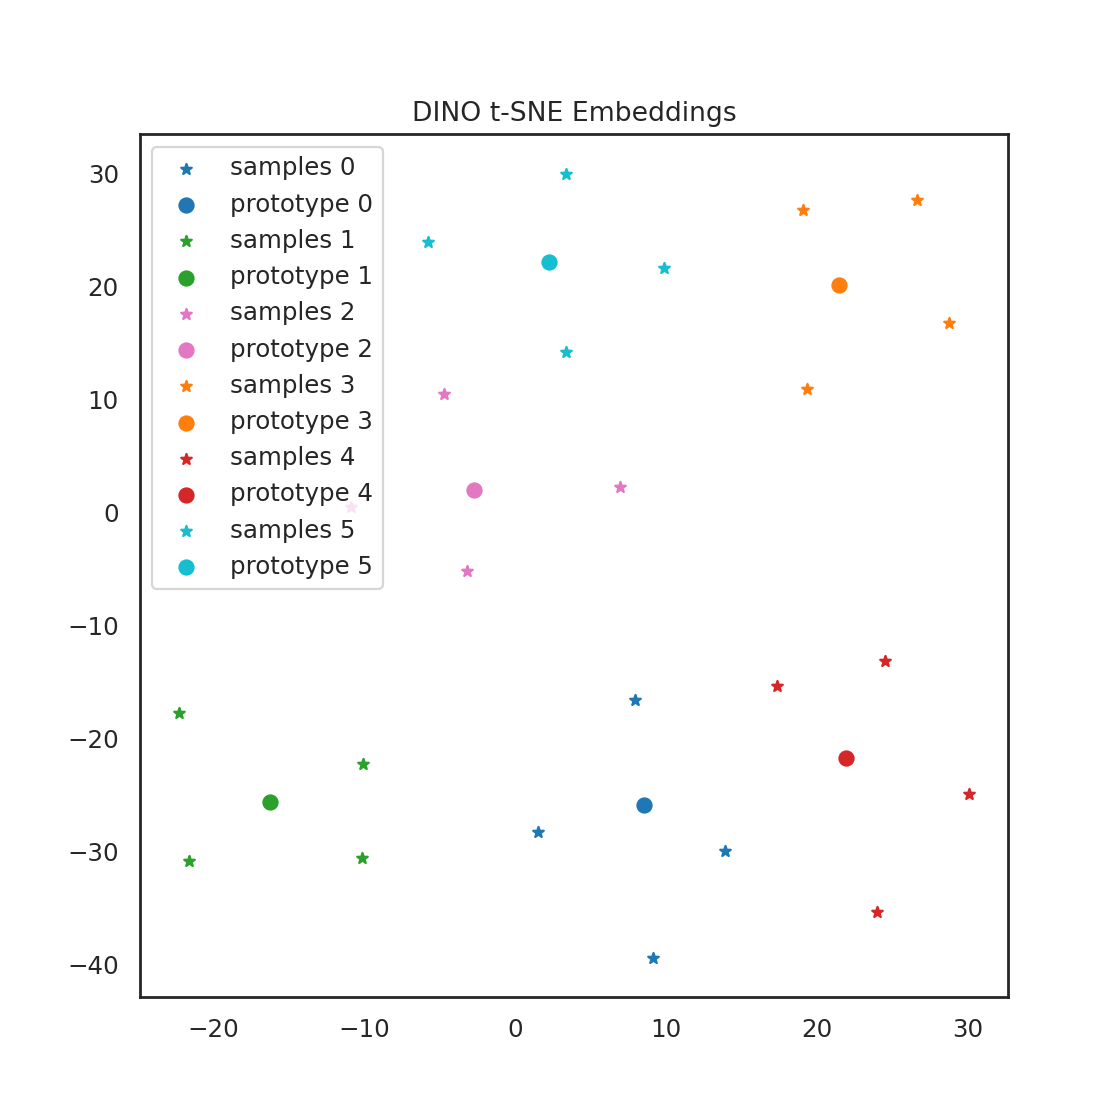
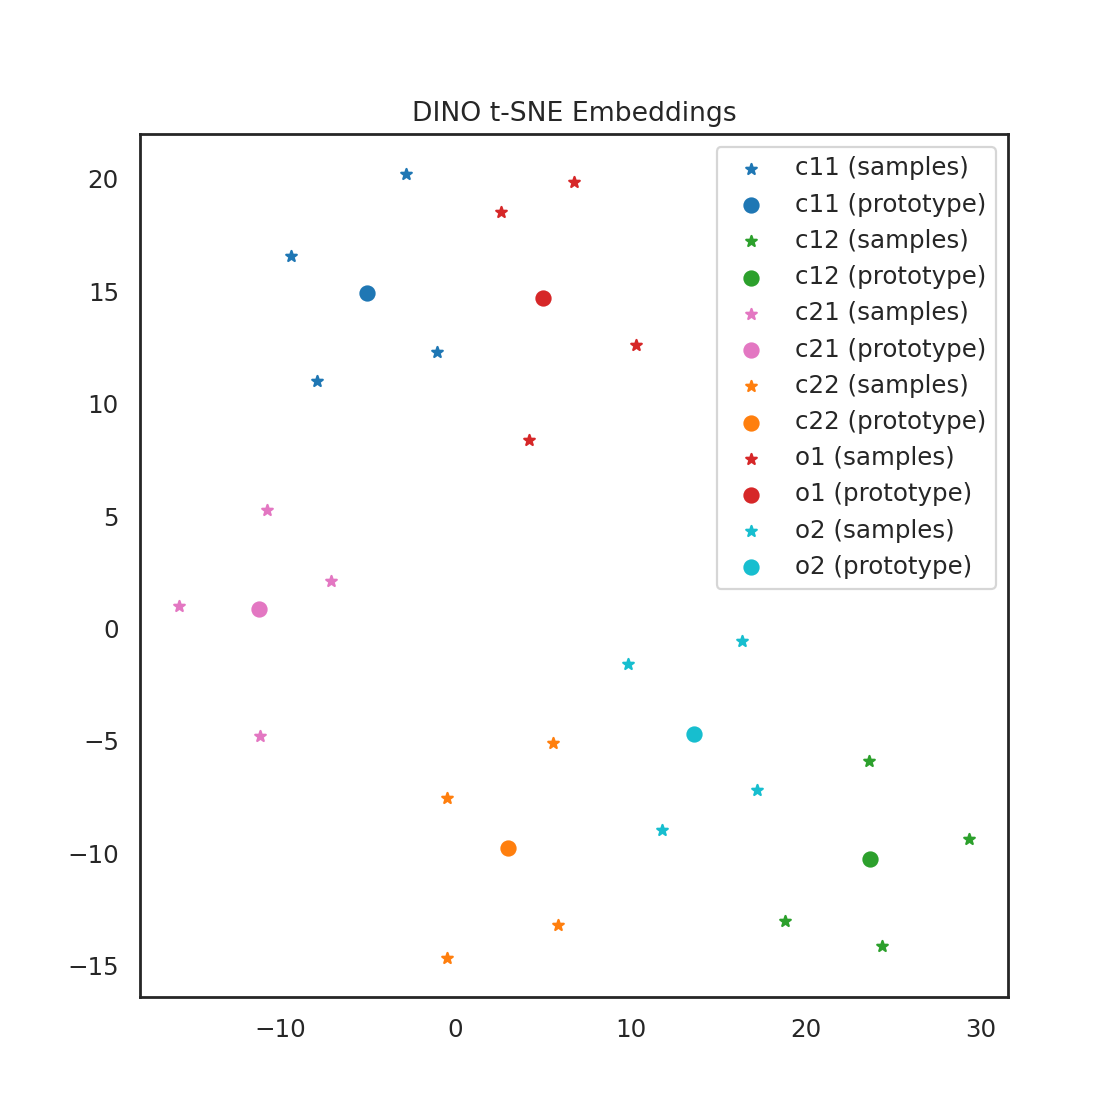
DINO experiment

diff --git a/utils.py b/utils.py
@@ -101,7 +101,7 @@ def plot_adj_mat(mat, name, path, figsize=10):
     plt.savefig(path + name + '.png', dpi=160)
 
 
-def plot_tsne(embs, n_groups, n_samples, name, path, figsize=7):
+def plot_tsne(embs, group_names, n_groups, n_samples, name, path, figsize=7):
     
     #cmap = plt.get_cmap('jet')
     #colors = np.random.permutation(K)
@@ -114,8 +114,8 @@ def plot_tsne(embs, n_groups, n_samples, name, path, figsize=7):
     for i in range(n_groups):
         samples = embs[i * n_samples: (i + 1) * n_samples]
         proto = embs[-n_groups + i]
-        plt.scatter(samples[:, 0], samples[:, 1], marker='*', s=25, c=colors[i], label='samples ' + str(i))
-        plt.scatter(proto[None, 0], proto[None, 1], marker='o', s=40, c=colors[i], label='prototype ' + str(i))    
+        plt.scatter(samples[:, 0], samples[:, 1], marker='*', s=25, c=colors[i], label=group_names[i] + ' (samples)')
+        plt.scatter(proto[None, 0], proto[None, 1], marker='o', s=40, c=colors[i], label=group_names[i] + ' (prototype)')    
       
     plt.title('DINO t-SNE Embeddings')
     plt.legend()

diff --git a/dino_experiment.py b/dino_experiment.py
@@ -41,7 +41,7 @@ prototype_list = []
 
 for name in group_names:
     
-    imgs = [transform(Image.open(image_path + name + ' (' + str(k + 1) + ').jpg')) for k in range(N_samples)]
+    imgs = [transform(Image.open(image_path + name + f' ({k + 1}).jpg')) for k in range(N_samples)]
     with torch.no_grad():
         embs = [model_dino(img.unsqueeze(0).to(device)).squeeze().cpu().numpy() for img in imgs]
     
@@ -60,7 +60,7 @@ euc_dists = np.round(euc_dists, 1).T
 
 
 
-utils.plot_adj_mat(euc_dists, 'Unnormalized Euclidean Similarity Matrix', result_path)
+utils.plot_adj_mat(euc_dists, 'Unnormalized Euclidean Distance Matrix', result_path)
 
 
 ### Cosine distance ####
@@ -98,6 +98,6 @@ all_embs = np.concatenate([embs_normalized, protos_normalized])
 tsne = TSNE(n_components=2, learning_rate='auto', init='pca', perplexity=tsne_perplexity)
 tsne_embs = tsne.fit_transform(all_embs)
 
-utils.plot_tsne(tsne_embs, N_groups, N_samples, 'DINO t-SNE Embeddings', result_path)
+utils.plot_tsne(tsne_embs, group_names, N_groups, N_samples, 'DINO t-SNE Embeddings', result_path)
 
 
